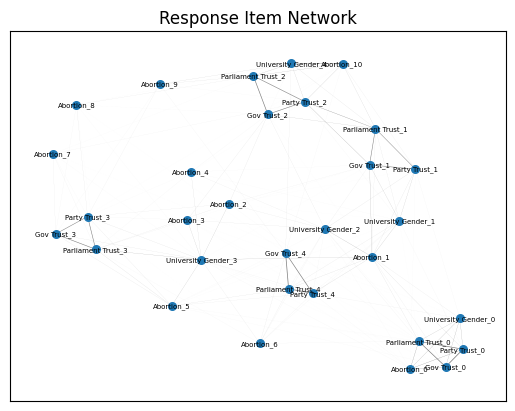
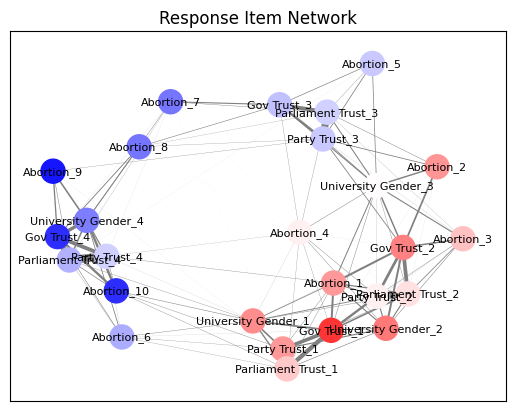
Fix the orientation to always be from left to right leaning,

diff --git a/src/responseItemNetwork.py b/src/responseItemNetwork.py
@@ -80,45 +80,35 @@ class ResponseItemNetwork:
             if node == self.POLITCAL_BELIEF_COLUMN:
                 continue
 
-            G.add_node(node, label=node)
-
             # Calculate the political mean belief in order to color each question node
             if not partisan_column.empty:
                 mean_belief = self.get_mean_political_belief(node, partisan_column)
                 node_colors.append(self.political_belief_to_color(mean_belief))
+            
+            G.add_node(node, label=node, leaning=mean_belief)
+
 
         # Add edges to the graph
         for edge in self.edges.values():
             G.add_edge(edge['source'], edge['target'], weight=edge['weight'])
 
         # Calculate the positions of the nodes using force-directed layout
-        pos = nx.spring_layout(G, iterations=5000)
+        positions = nx.spring_layout(G, iterations=5000)
 
         # rotate and scale the positions
-        # positions = self.extract_positions(pos)
-        # pca = PCA(n_components=2)
-        # pca.fit(positions)
-        # x_pca = pca.transform(positions)
-        # xx = x_pca[:, 0]
-        # yy = x_pca[:, 1]
-
-        # mm = min(xx)*1.1
-        # MM = max(xx)*1.1
+        rotated_positions = self.extract_positions(positions, G)
 
         # draw nodes
         node_labels = {node: data.get('label', node) for node, data in G.nodes(data=True)}
-        nx.draw_networkx_nodes(G, pos, node_size=300, node_color=node_colors)
-        nx.draw_networkx_labels(G, pos, labels=node_labels, font_size=8)
+        nx.draw_networkx_nodes(G, rotated_positions, node_size=300, node_color=node_colors)
+        nx.draw_networkx_labels(G, rotated_positions, labels=node_labels, font_size=8)
 
         # draw edges
         edges = G.edges()
         weights = [G[u][v]['weight'] for u, v in edges]
-        nx.draw_networkx_edges(G, pos, width=[w * weight_multiplier for w in weights], edge_color='gray')
+        nx.draw_networkx_edges(G, rotated_positions, width=[w * weight_multiplier for w in weights], edge_color='gray')
 
         plt.title("Response Item Network")
-        # plt.axis('off')
-        # plt.xlim([mm, MM])
-        # plt.ylim([mm, MM])
         plt.show()
 
 
@@ -135,18 +125,26 @@ class ResponseItemNetwork:
         return custom_cmap(norm_belief)  # Map the normalized value to the color
 
 
-    def extract_positions(self, pos):
+    def extract_positions(self, pos, G: nx.Graph):
         # based on the original Respondent network 
         # https://github.com/just-a-normal-dino/AS22_analysis_RESIN/blob/main/graded_model_full.ipynb
-        pos2 = [[],[]]
-        key_list = []
-        for key in pos:
-            pos2[0].append(pos[key][0])
-            pos2[1].append(pos[key][1])
-            key_list.append(key)
+        positions = np.array([list(pos[node]) for node in G.nodes]) 
+        pca = PCA(n_components=2)
+        rotated_positions = pca.fit_transform(positions)
 
-        pos3 = []
-        for key in pos:
-            pos3.append([pos[key][0],pos[key][1]])
+        # Extract x-coordinates and node leaning
+        x_coords = rotated_positions[:, 0]
+        leaning = [G.nodes[node]["leaning"] for node in G.nodes]
 
-        return pos3
+        # Ensure "left-leaning" nodes are on the left side
+        left_indices = [i for i, l in enumerate(leaning) if l == "left"]
+        right_indices = [i for i, l in enumerate(leaning) if l == "right"]
+
+        # Check average x-coordinates
+        avg_left_x = np.mean(x_coords[left_indices])
+        avg_right_x = np.mean(x_coords[right_indices])
+
+        # Flip x-axis if necessary
+        if avg_left_x > avg_right_x:
+            rotated_positions[:, 0] = -rotated_positions[:, 0]
+        return rotated_positions
